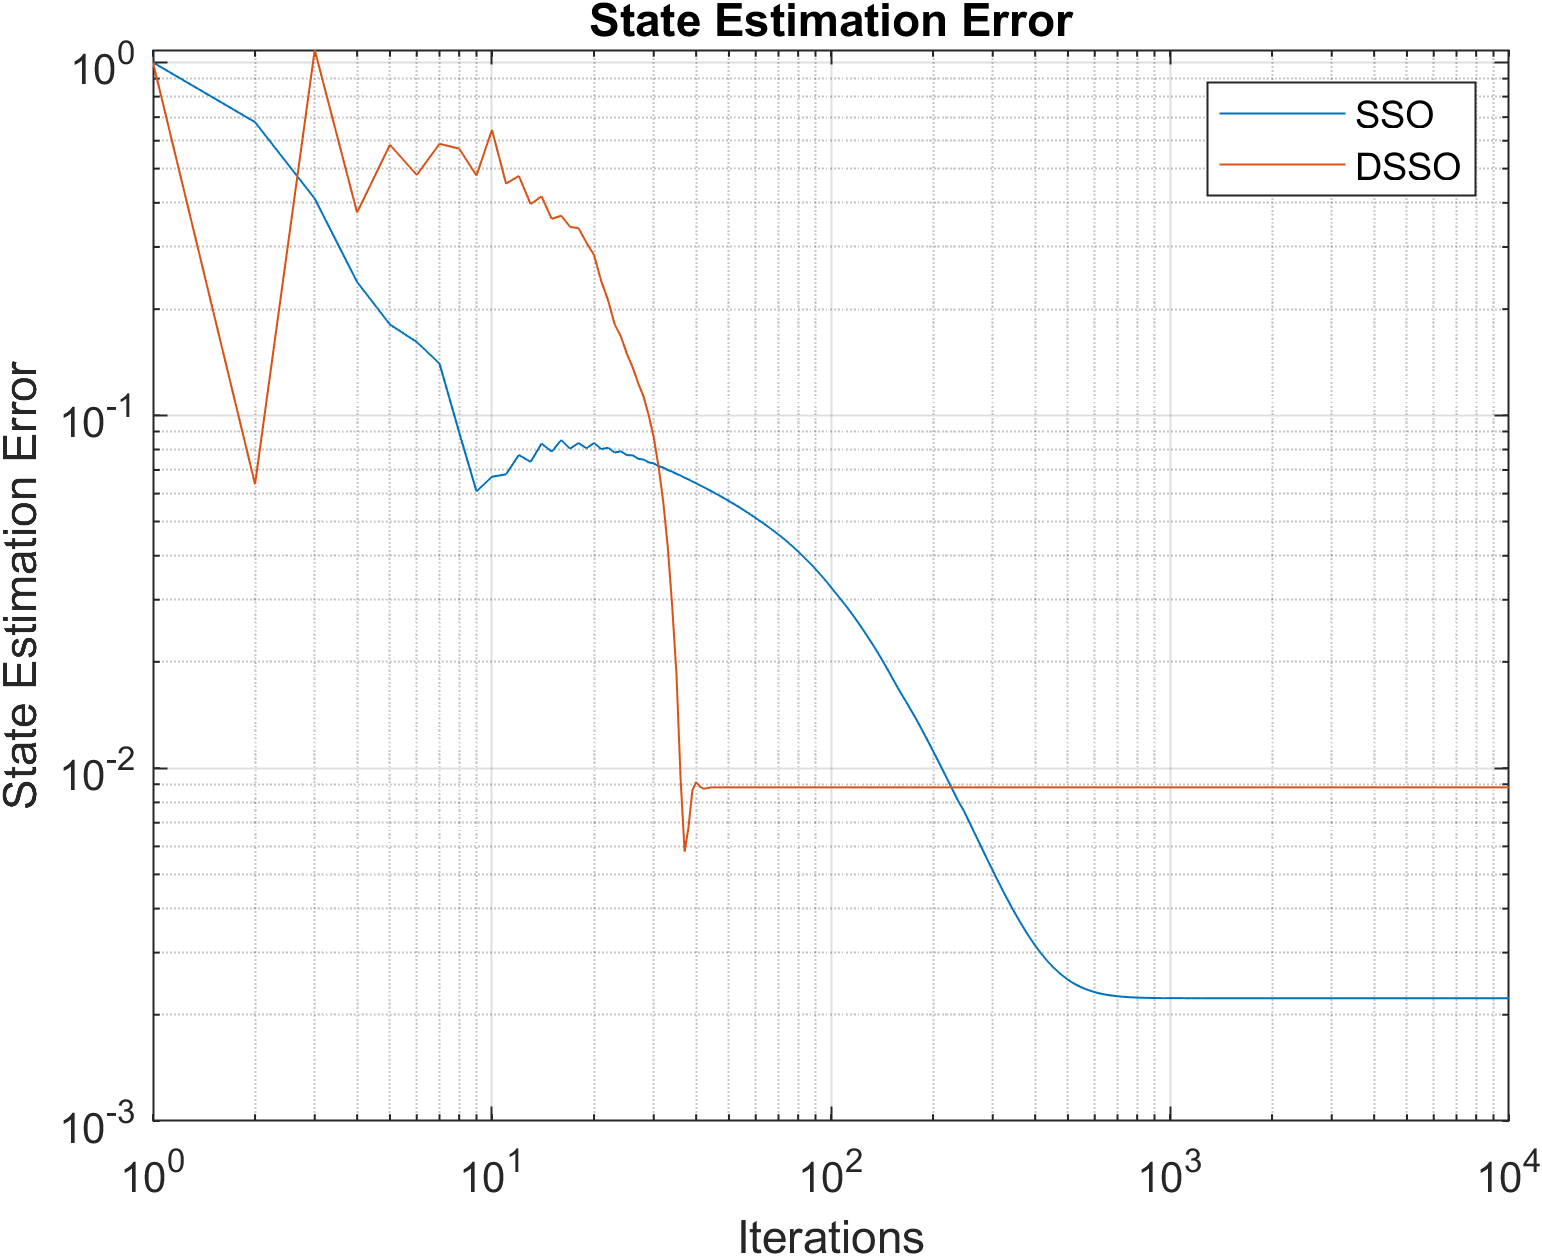
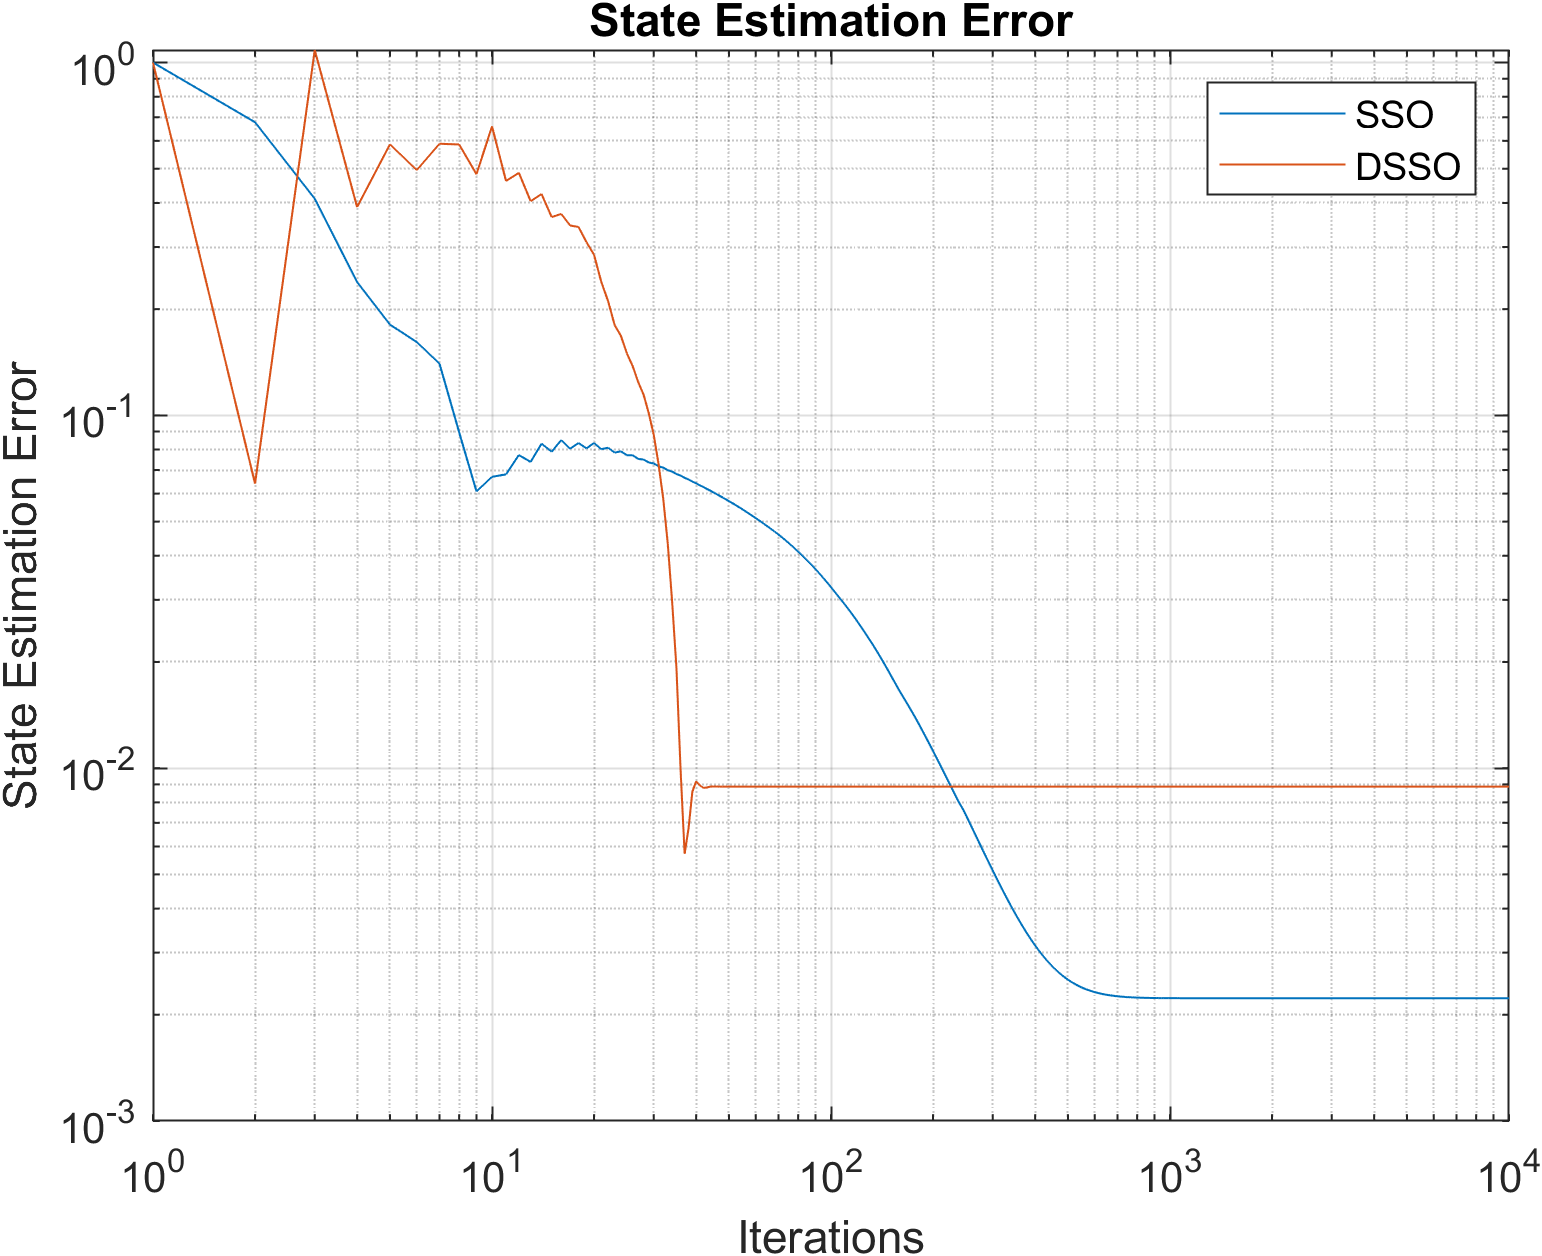
fix L computation

diff --git a/task3/DSSO.m b/task3/DSSO.m
@@ -7,8 +7,8 @@ function [state_estimation_error, attack_error] = DSSO(x0, C, A, a_true, lambda,
     attack_error = []; 
     state_estimation_error(1) = norm(x_est - x_true, 2) / norm(x_true); 
     attack_error(1) = support_attack_error(a_true, a_est); 
-    L = A * pinv(C);
-
+    des_eig = 0.01 * rand(n, 1); %% approximately null
+    L = place (A',C', des_eig )';
     for k=2:T_max
         y_true = C * x_true + a_true;
         y_est = C * x_est + a_est;
